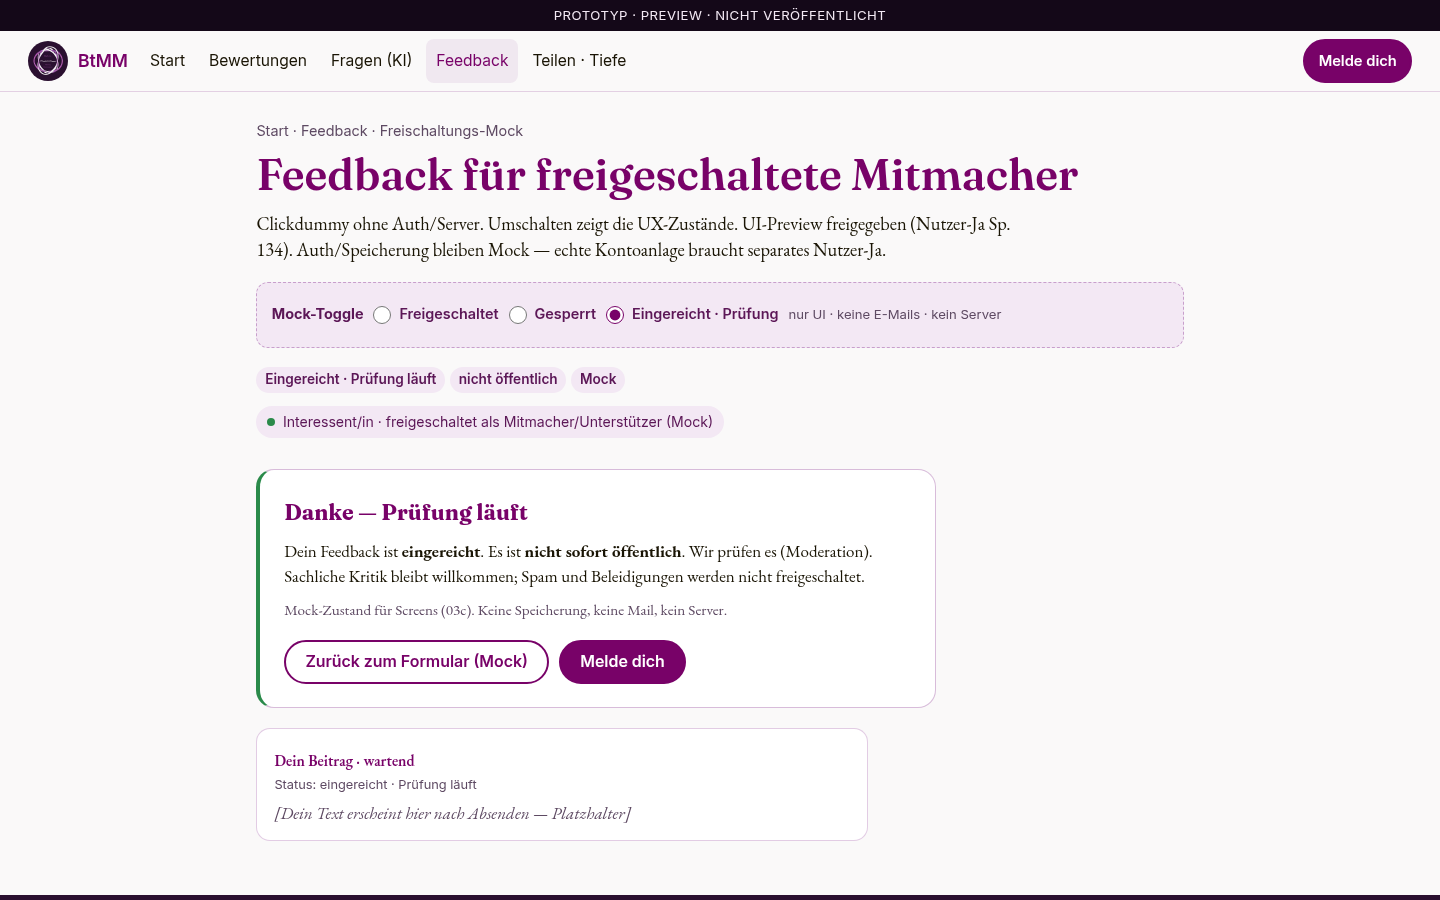
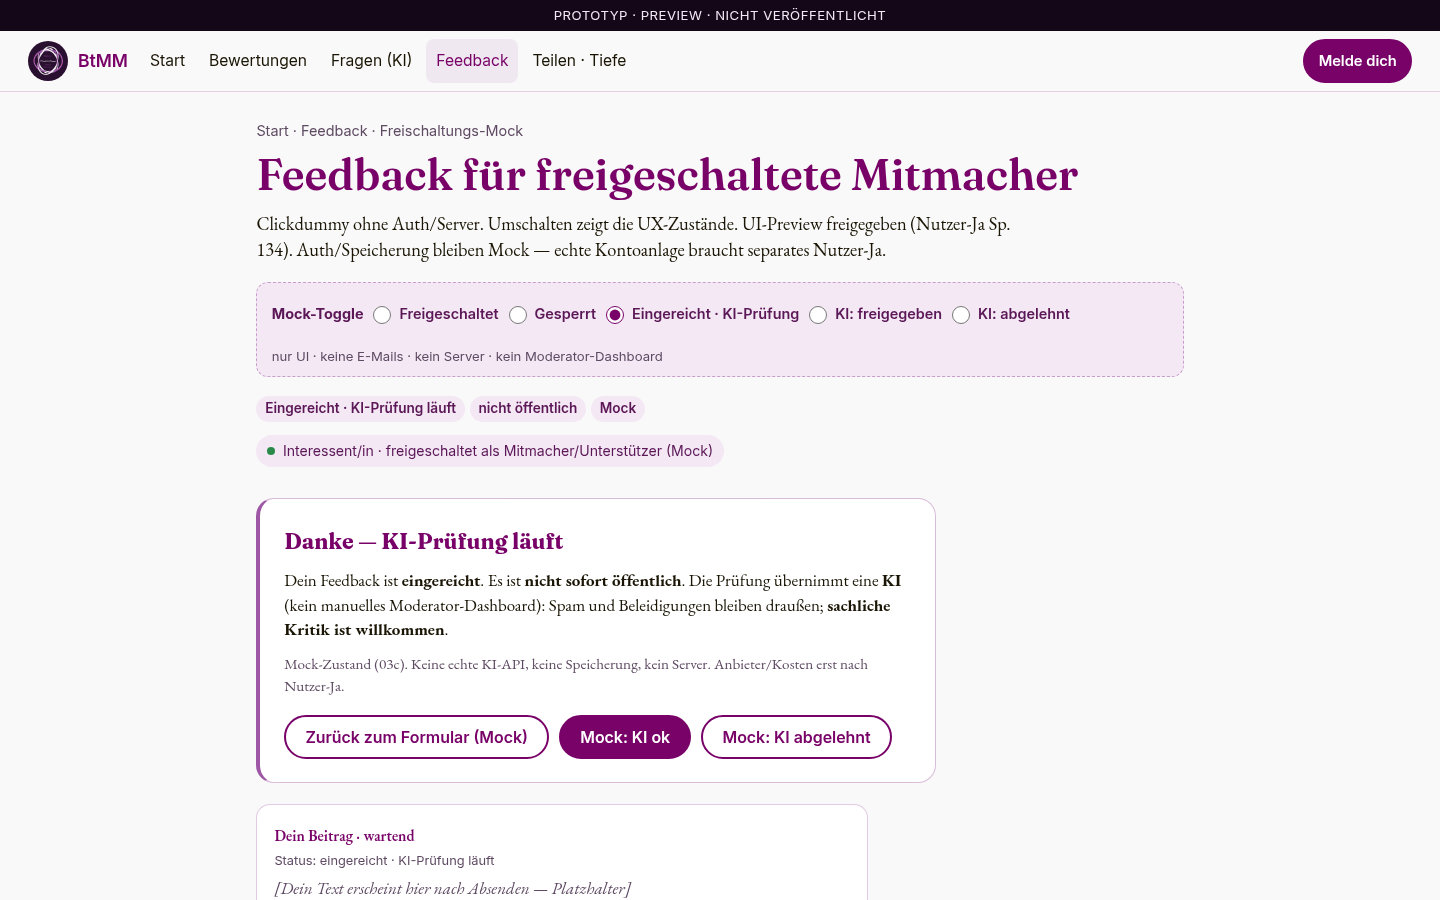
Sp. 134: Gate + KI-Prüfung Mock (03c/03d), keine echte API
Feedback-Zustände eingereicht·KI-Prüfung / ki-ok / ki-abgelehnt aus
Design-Screens 22:43. Referenz-PNGs 03c/03d; Tests erweitert.
Scaleway/Kosten weiter nur mit Nutzer-Ja. Preview bleibt noindex.

Changed region(s): [[0.0, 0.5289, 1.0, 1.0], [0.1875, 0.3733, 0.5, 0.5289], [0.5, 0.3422, 0.75, 0.3733]]

diff --git a/public/vorschau/bewertung-chat-feedback/feedback.html b/public/vorschau/bewertung-chat-feedback/feedback.html
@@ -41,8 +41,10 @@
     <span style="font-weight:700;color:#5c1757">Mock-Toggle</span>
     <label><input type="radio" name="zustand" value="frei" checked> Freigeschaltet</label>
     <label><input type="radio" name="zustand" value="gesperrt"> Gesperrt</label>
-    <label><input type="radio" name="zustand" value="eingereicht"> Eingereicht · Prüfung</label>
-    <span class="fein">nur UI · keine E-Mails · kein Server</span>
+    <label><input type="radio" name="zustand" value="eingereicht"> Eingereicht · KI-Prüfung</label>
+    <label><input type="radio" name="zustand" value="ki-ok"> KI: freigegeben</label>
+    <label><input type="radio" name="zustand" value="ki-abgelehnt"> KI: abgelehnt</label>
+    <span class="fein">nur UI · keine E-Mails · kein Server · kein Moderator-Dashboard</span>
   </div>
 
   <!-- FREIGESCHALTET -->
@@ -50,7 +52,7 @@
     <p><span class="badge">Freigeschaltet als Interessent/in · Mitmacher</span><span class="badge">Mock</span><span class="badge warn">nur nach Freischaltung</span></p>
     <div class="account-chip" style="margin-top:.8em"><span class="punkt" aria-hidden="true"></span> Interessent/in · freigeschaltet als Mitmacher/Unterstützer (Mock)</div>
     <aside class="hinweis-kasten" role="note">
-      <p><strong>Hinweis.</strong> Du bist freigeschaltet. Sachliche Kritik ist willkommen. Beleidigungen und Spam werden nicht veröffentlicht. Beiträge erscheinen erst nach Prüfung — nicht sofort öffentlich. Nie „Mitglied“ vor eG-Eintragung.</p>
+      <p><strong>Hinweis.</strong> Du bist freigeschaltet. Sachliche Kritik ist willkommen. Beleidigungen und Spam werden nicht veröffentlicht. Beiträge erscheinen erst nach <strong>KI-Prüfung</strong> — nicht sofort öffentlich. Kein Moderator-Dashboard. Nie „Mitglied“ vor eG-Eintragung.</p>
     </aside>
     <div class="kritik-spam" role="note">
       <div class="ok"><strong>Kritik willkommen</strong> Unbequem und ehrlich — wenn du mitmachst oder unterstützt.</div>
@@ -106,24 +108,62 @@
     </div>
   </div>
 
-  <!-- EINGEREICHT · PRÜFUNG (03c) -->
+  <!-- EINGEREICHT · KI-PRÜFUNG (03c) -->
   <div id="z-eingereicht" class="zustand-panel" hidden>
-    <p><span class="badge">Eingereicht · Prüfung läuft</span><span class="badge">nicht öffentlich</span><span class="badge">Mock</span></p>
+    <p><span class="badge">Eingereicht · KI-Prüfung läuft</span><span class="badge">nicht öffentlich</span><span class="badge">Mock</span></p>
     <div class="account-chip" style="margin-top:.8em"><span class="punkt" aria-hidden="true"></span> Interessent/in · freigeschaltet als Mitmacher/Unterstützer (Mock)</div>
-    <div class="gate-karte" style="margin-top:1em;border-left:4px solid #2a8a4a">
-      <h2>Danke — Prüfung läuft</h2>
-      <p>Dein Feedback ist <strong>eingereicht</strong>. Es ist <strong>nicht sofort öffentlich</strong>. Wir prüfen es (Moderation). Sachliche Kritik bleibt willkommen; Spam und Beleidigungen werden nicht freigeschaltet.</p>
-      <p style="margin-top:.7em;font-size:.95rem;color:#5e4a63">Mock-Zustand für Screens (03c). Keine Speicherung, keine Mail, kein Server.</p>
+    <div class="gate-karte" style="margin-top:1em;border-left:4px solid #9e57a4">
+      <h2>Danke — KI-Prüfung läuft</h2>
+      <p>Dein Feedback ist <strong>eingereicht</strong>. Es ist <strong>nicht sofort öffentlich</strong>. Die Prüfung übernimmt eine <strong>KI</strong> (kein manuelles Moderator-Dashboard): Spam und Beleidigungen bleiben draußen; <strong>sachliche Kritik ist willkommen</strong>.</p>
+      <p style="margin-top:.7em;font-size:.95rem;color:#5e4a63">Mock-Zustand (03c). Keine echte KI-API, keine Speicherung, kein Server. Anbieter/Kosten erst nach Nutzer-Ja.</p>
       <div class="knoepfe" style="margin-top:1.1em">
         <button class="knopf zweit" type="button" id="btn-zurueck-form">Zurück zum Formular (Mock)</button>
-        <a class="knopf" href="mailto:office@b-t-m-m.com">Melde dich</a>
+        <button class="knopf" type="button" id="btn-mock-ki-ok">Mock: KI ok</button>
+        <button class="knopf zweit" type="button" id="btn-mock-ki-nein">Mock: KI abgelehnt</button>
       </div>
     </div>
     <article class="thread-karte" style="margin-top:1.2em;max-width:36em">
       <p class="wer">Dein Beitrag · wartend</p>
-      <p class="wann">Status: eingereicht · Prüfung läuft</p>
+      <p class="wann">Status: eingereicht · KI-Prüfung läuft</p>
       <p id="eingereicht-vorschau" style="font-style:italic;color:#5e4a63">[Dein Text erscheint hier nach Absenden — Platzhalter]</p>
     </article>
+  </div>
+
+  <!-- 03d OK · KI freigegeben -->
+  <div id="z-ki-ok" class="zustand-panel" hidden>
+    <p><span class="badge">KI-Prüfung: ok</span><span class="badge">zur Veröffentlichung freigegeben</span><span class="badge">Mock</span></p>
+    <div class="account-chip" style="margin-top:.8em"><span class="punkt" aria-hidden="true"></span> Interessent/in · Mitmacher/Unterstützer (Mock)</div>
+    <div class="gate-karte" style="margin-top:1em;border-left:4px solid #2a8a4a">
+      <h2>KI-Prüfung: ok — Kritik freigegeben</h2>
+      <p>Dein Beitrag hat die KI-Prüfung bestanden. Sachliche Kritik und konstruktive Rückmeldung sind willkommen. Der Beitrag ist <strong>zur Veröffentlichung freigegeben</strong> (im Live-System; hier nur Mock).</p>
+      <p style="margin-top:.7em;font-size:.95rem;color:#5e4a63">Kein Moderator-UI. Ergebnis für dich als Mitmacher/in sichtbar. Preview — keine echte API.</p>
+      <div class="knoepfe" style="margin-top:1.1em">
+        <button class="knopf zweit" type="button" data-goto="frei">Neues Feedback (Mock)</button>
+        <a class="knopf" href="mailto:office@b-t-m-m.com">Melde dich</a>
+      </div>
+    </div>
+    <article class="thread-karte" style="margin-top:1.2em;max-width:36em">
+      <p class="wer">Dein Beitrag · freigegeben</p>
+      <p class="wann">KI-Prüfung: ok · Kritik freigegeben</p>
+      <p style="font-style:italic">„[PLATZHALTER] Die Säulen-Seite könnte eine kurze und eine tiefe Version haben — sonst springen Leute ab.“</p>
+    </article>
+  </div>
+
+  <!-- 03d Abgelehnt -->
+  <div id="z-ki-abgelehnt" class="zustand-panel" hidden>
+    <p><span class="badge warn">KI-Prüfung: nicht freigegeben</span><span class="badge">Spam/Beleidigung</span><span class="badge">Mock</span></p>
+    <div class="account-chip" style="margin-top:.8em"><span class="punkt" aria-hidden="true"></span> Interessent/in · Mitmacher/Unterstützer (Mock)</div>
+    <div class="gate-karte" style="margin-top:1em;border-left:4px solid #8a0d4a">
+      <h2>KI-Prüfung: nicht freigegeben</h2>
+      <p>Dein Beitrag wurde <strong>nicht freigegeben</strong>. Die KI hat ihn als Spam, Beleidigung oder ähnlichen unerwünschten Inhalt eingestuft. Sachliche Kritik wäre willkommen — Hater und Trolling nicht.</p>
+      <p style="margin-top:.7em">Das ist keine Strafe und kein öffentliches Bloßstellen. Du kannst dich melden, wenn du denkst, dass das ein Fehler war — oder neu formulieren und erneut einreichen (nach Freischaltung).</p>
+      <p style="margin-top:.7em;font-size:.95rem;color:#5e4a63">Mock-Zustand (03d abgelehnt). Kein Admin-Dashboard. Keine Blackbox-Angst: klare Kategorie Spam/Beleidigung, ohne technische Details.</p>
+      <div class="knoepfe" style="margin-top:1.1em">
+        <a class="knopf" href="mailto:office@b-t-m-m.com?subject=BtMM%20Feedback%20KI-Pruefung">Melde dich (Kontakt bei Ablehnung)</a>
+        <button class="knopf zweit" type="button" data-goto="frei">Neu formulieren (Mock)</button>
+      </div>
+      <p style="margin-top:.8em;font-size:.9rem;font-family:var(--ui)"><a href="mailto:office@b-t-m-m.com">office@b-t-m-m.com</a> — wenn du denkst, die KI hat geirrt.</p>
+    </div>
   </div>
 </main>
 <footer class="fuss">
@@ -133,9 +173,15 @@
 </footer>
 <script>
 (function () {
-  var panels = { frei: document.getElementById('z-frei'), gesperrt: document.getElementById('z-gesperrt'), eingereicht: document.getElementById('z-eingereicht') };
+  var panels = {
+    frei: document.getElementById('z-frei'),
+    gesperrt: document.getElementById('z-gesperrt'),
+    eingereicht: document.getElementById('z-eingereicht'),
+    'ki-ok': document.getElementById('z-ki-ok'),
+    'ki-abgelehnt': document.getElementById('z-ki-abgelehnt')
+  };
   function show(key) {
-    Object.keys(panels).forEach(function (k) { panels[k].hidden = (k !== key); });
+    Object.keys(panels).forEach(function (k) { if (panels[k]) panels[k].hidden = (k !== key); });
     var r = document.querySelector('input[name="zustand"][value="' + key + '"]');
     if (r) r.checked = true;
   }
@@ -144,16 +190,23 @@
   });
   var btn = document.getElementById('btn-absenden');
   if (btn) btn.addEventListener('click', function () {
-    var t = document.getElementById('fb');
+    var ta = document.getElementById('fb');
     var prev = document.getElementById('eingereicht-vorschau');
-    if (prev) prev.textContent = (t && t.value.trim()) ? t.value.trim() : '[PLATZHALTER Demo-Text · Prüfung läuft]';
+    if (prev) prev.textContent = (ta && ta.value.trim()) ? ta.value.trim() : '[PLATZHALTER Demo-Text · KI-Prüfung läuft]';
     show('eingereicht');
   });
   var back = document.getElementById('btn-zurueck-form');
   if (back) back.addEventListener('click', function () { show('frei'); });
-  // URL ?zustand=eingereicht|gesperrt for screenshots
+  var ok = document.getElementById('btn-mock-ki-ok');
+  if (ok) ok.addEventListener('click', function () { show('ki-ok'); });
+  var nein = document.getElementById('btn-mock-ki-nein');
+  if (nein) nein.addEventListener('click', function () { show('ki-abgelehnt'); });
+  document.querySelectorAll('[data-goto]').forEach(function (el) {
+    el.addEventListener('click', function () { show(el.getAttribute('data-goto')); });
+  });
   var q = new URLSearchParams(location.search).get('zustand');
-  if (q === 'eingereicht' || q === 'gesperrt' || q === 'frei') show(q);
+  var map = { eingereicht: 'eingereicht', gesperrt: 'gesperrt', frei: 'frei', 'ki-ok': 'ki-ok', 'ki-abgelehnt': 'ki-abgelehnt', ok: 'ki-ok', abgelehnt: 'ki-abgelehnt' };
+  if (q && map[q]) show(map[q]);
 })();
 </script>
 </body>

diff --git a/public/vorschau/bewertung-chat-feedback/LIESMICH.md b/public/vorschau/bewertung-chat-feedback/LIESMICH.md
@@ -1,26 +1,28 @@
 # Sp. 134 – Vorschau Bewertungen / KI-Chat / Feedback / Text-Stufen
 
 **Stand:** 18.11.2026 Europe/Berlin  
-**Status:** Preview · noindex · nicht Live · kein Konto · keine KI-API  
+**Status:** Preview · noindex · nicht Live · kein Konto · keine echte KI-API  
 
 ## Einstieg
 
-- Lokal / Preview-Deploy: `/vorschau/bewertung-chat-feedback/` bzw. `index.html`
-- Flächen: `bewertungen.html`, `ki-chat.html`, `feedback-gesperrt.html`, `feedback.html` (Toggle: frei / gesperrt / eingereicht), `text-stufen.html`
+- `/vorschau/bewertung-chat-feedback/` bzw. `index.html`
+- Feedback-Zustände (Mock-Toggle in `feedback.html`):
+  - `?zustand=frei` · `gesperrt` · `eingereicht` (03c KI-Prüfung läuft)
+  - `?zustand=ki-ok` · `ki-abgelehnt` (03d)
+- Gate gesperrt: `feedback-gesperrt.html` · mailto `office@b-t-m-m.com`
 
-## Copy-Stand (verbindlich)
+## Copy-Stand
 
 - Bewertungen-Einleitung (01): **„Lesen ist öffentlich. Schreiben ist kein Self-Service.“**
-- Quelle Autor: `texte/TEXTE-BEWERTUNG-CHAT-FEEDBACK-STUFEN-2026-11-18.md`
-- Design-Screens inkl. neuem `01-bewertungen-*.png`: `_screens/` (Referenz, nicht Prod-UI)
+- Feedback-Prüfung: **KI-Mock** (ok / abgelehnt) — kein Moderator-UI, keine echte API
+- Scaleway/Anbieter/Kosten: erst später mit Nutzer-Ja
 
 ## Zugang
 
-- Lesen öffentlich (Stufe A kuratiert, Platzhalter-Karten)
-- Schreiben: mailto-Gate `office@b-t-m-m.com` + persönliche Freischaltung (Mitmacher/Unterstützer; Kritik ok; Spam/Hater nein)
-- Feedback-Zustände: gesperrt / freigeschaltet / eingereicht·Prüfung (Mock, kein Server)
+- Lesen öffentlich (Stufe A, Platzhalter-Karten)
+- Schreiben: Melde dich + persönliche Freischaltung (Mitmacher/Unterstützer; Kritik ok; Spam/Hater nein)
 - Labels: Interessent/in · Mitmacher/in · Unterstützer/in — nie „Mitglied“ vor eG-Eintragung
 
-## Nicht in diesem Preview
+## Referenz-Screens
 
-- Live auf b-t-m-m.com, Kontoanlage/Auth, echte KI-API, Speicherung, Prod-Merge ohne Test-OK + Nutzer-Ja
+`_screens/` inkl. `01-bewertungen-*`, `03c-feedback-eingereicht-*`, `03d-feedback-ki-ok-*`, `03d-feedback-ki-abgelehnt-*`
